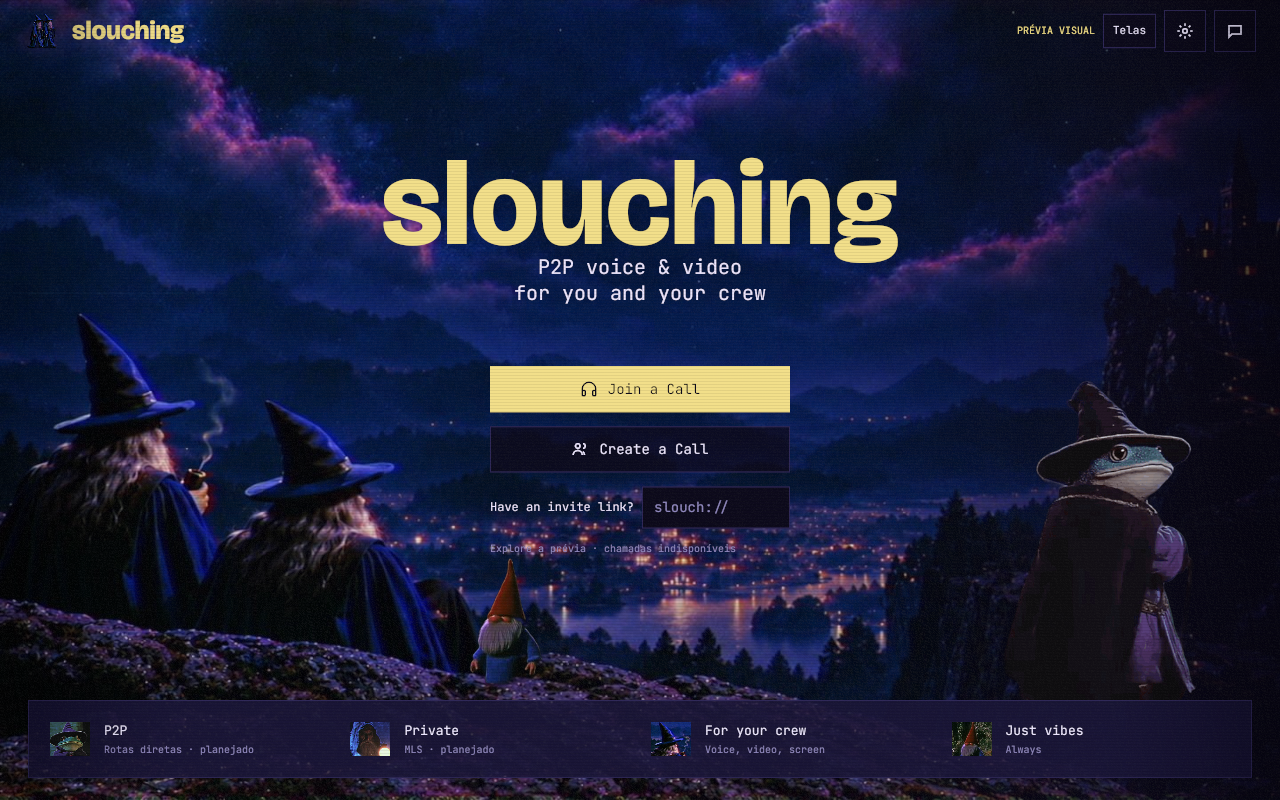
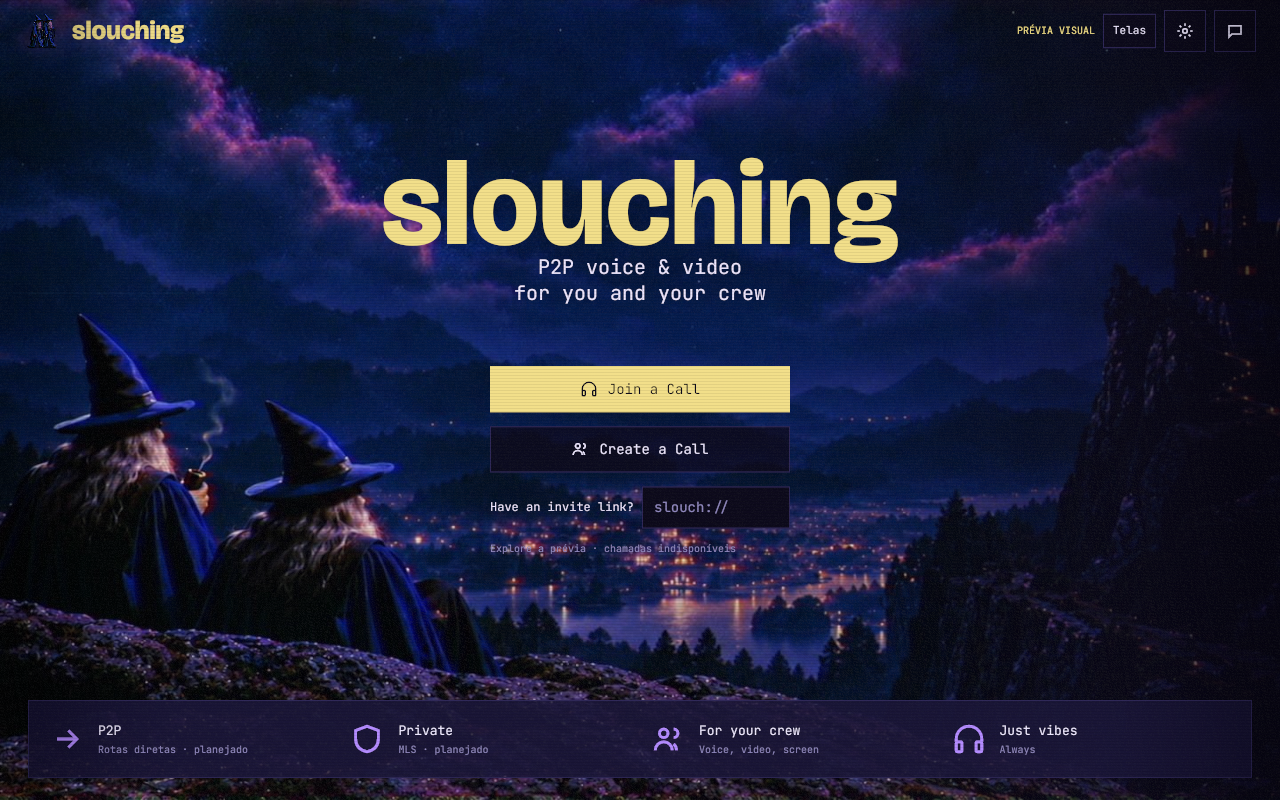
Refresh home preview without character cutouts

diff --git a/README.md b/README.md
@@ -18,7 +18,7 @@
 > [!IMPORTANT]
 > This is an early build, **not a secure messenger**. The Rust/Iced frontend has eleven navigable preview views and can explicitly create a local Ed25519 signing key in the system credential store. That key is not used to authenticate peers; fingerprint verification, pairing, MLS, peer transport, encrypted chat, media calls, and screen sharing are not implemented. The Elixir backend has local status and a development WebSocket handshake with Ping/Pong. The older Rust `slouching-peer` crate is preserved as an experiment, not the service backend.
 
-![Native Rust/Iced home using the supplied scenery, characters, fonts, and icons; first visual pass](docs/design/readme/native-vhs-home.png)
+![Native Rust/Iced home with the supplied night scenery and icon-based feature strip, without the frog mage or gnome cutouts](docs/design/readme/native-vhs-home.png)
 
 ![Native Rust/Iced familiar screen showing local encrypted profile status](docs/design/readme/native-vhs-profile.png)
 
